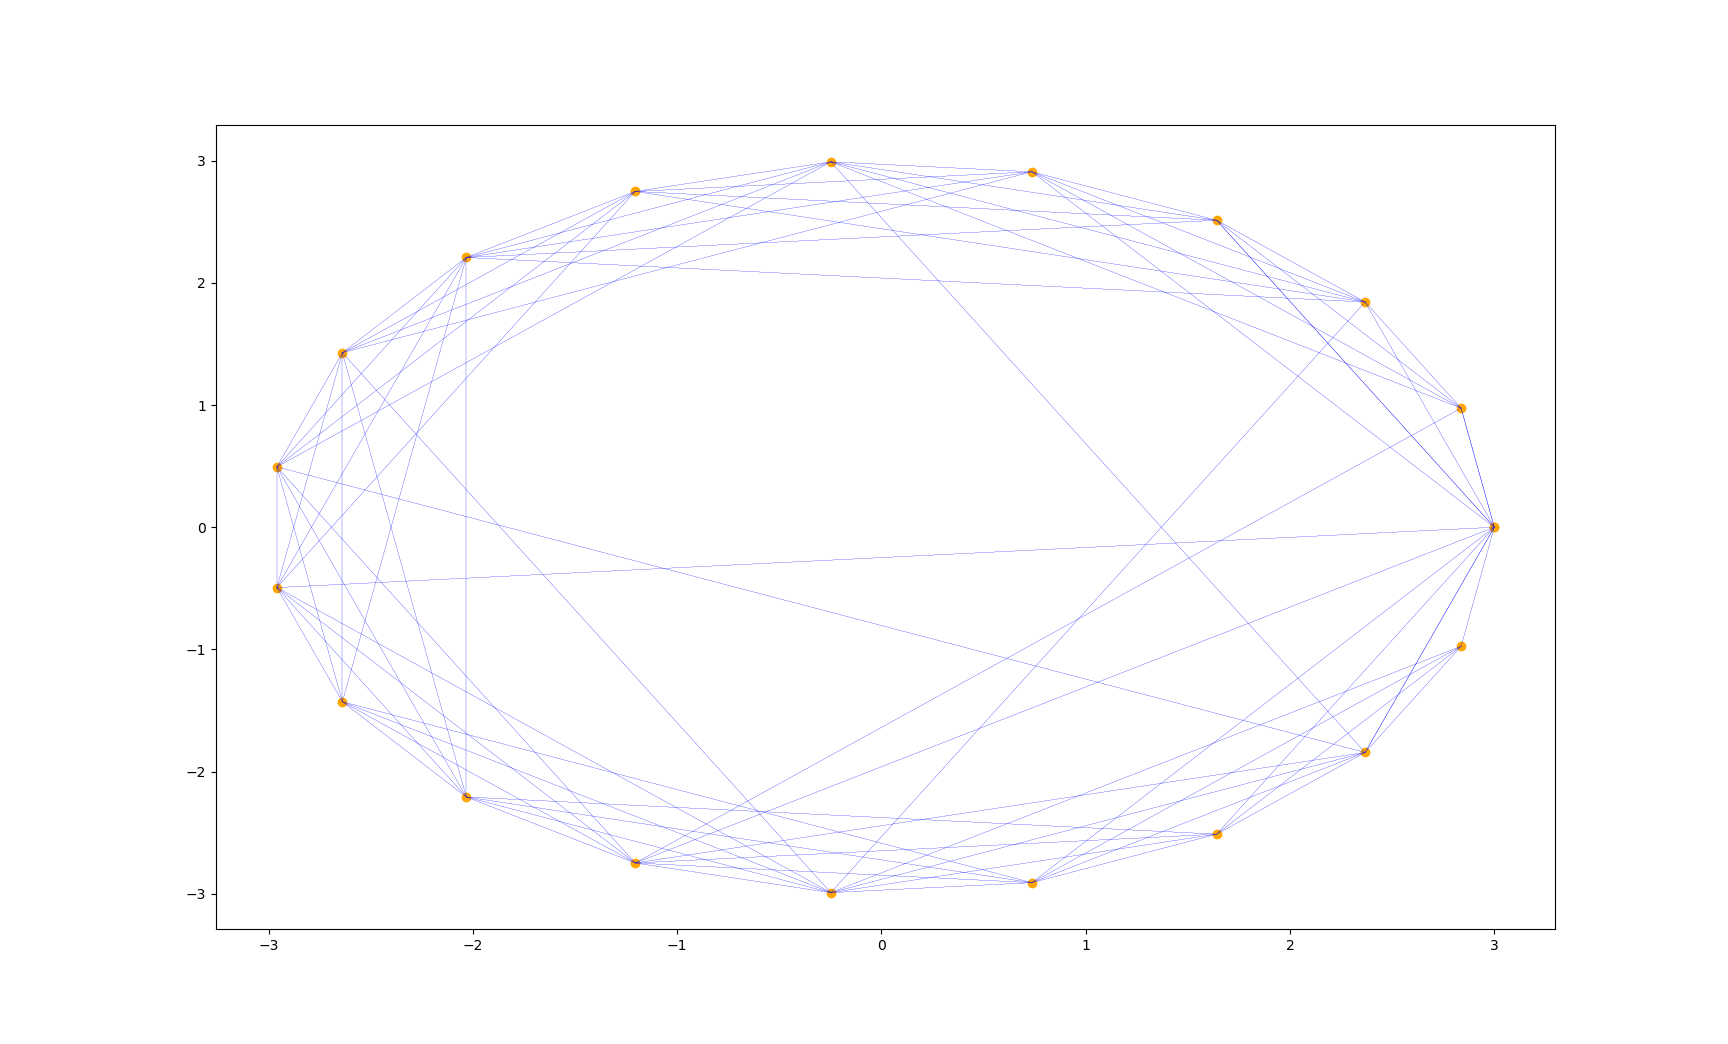
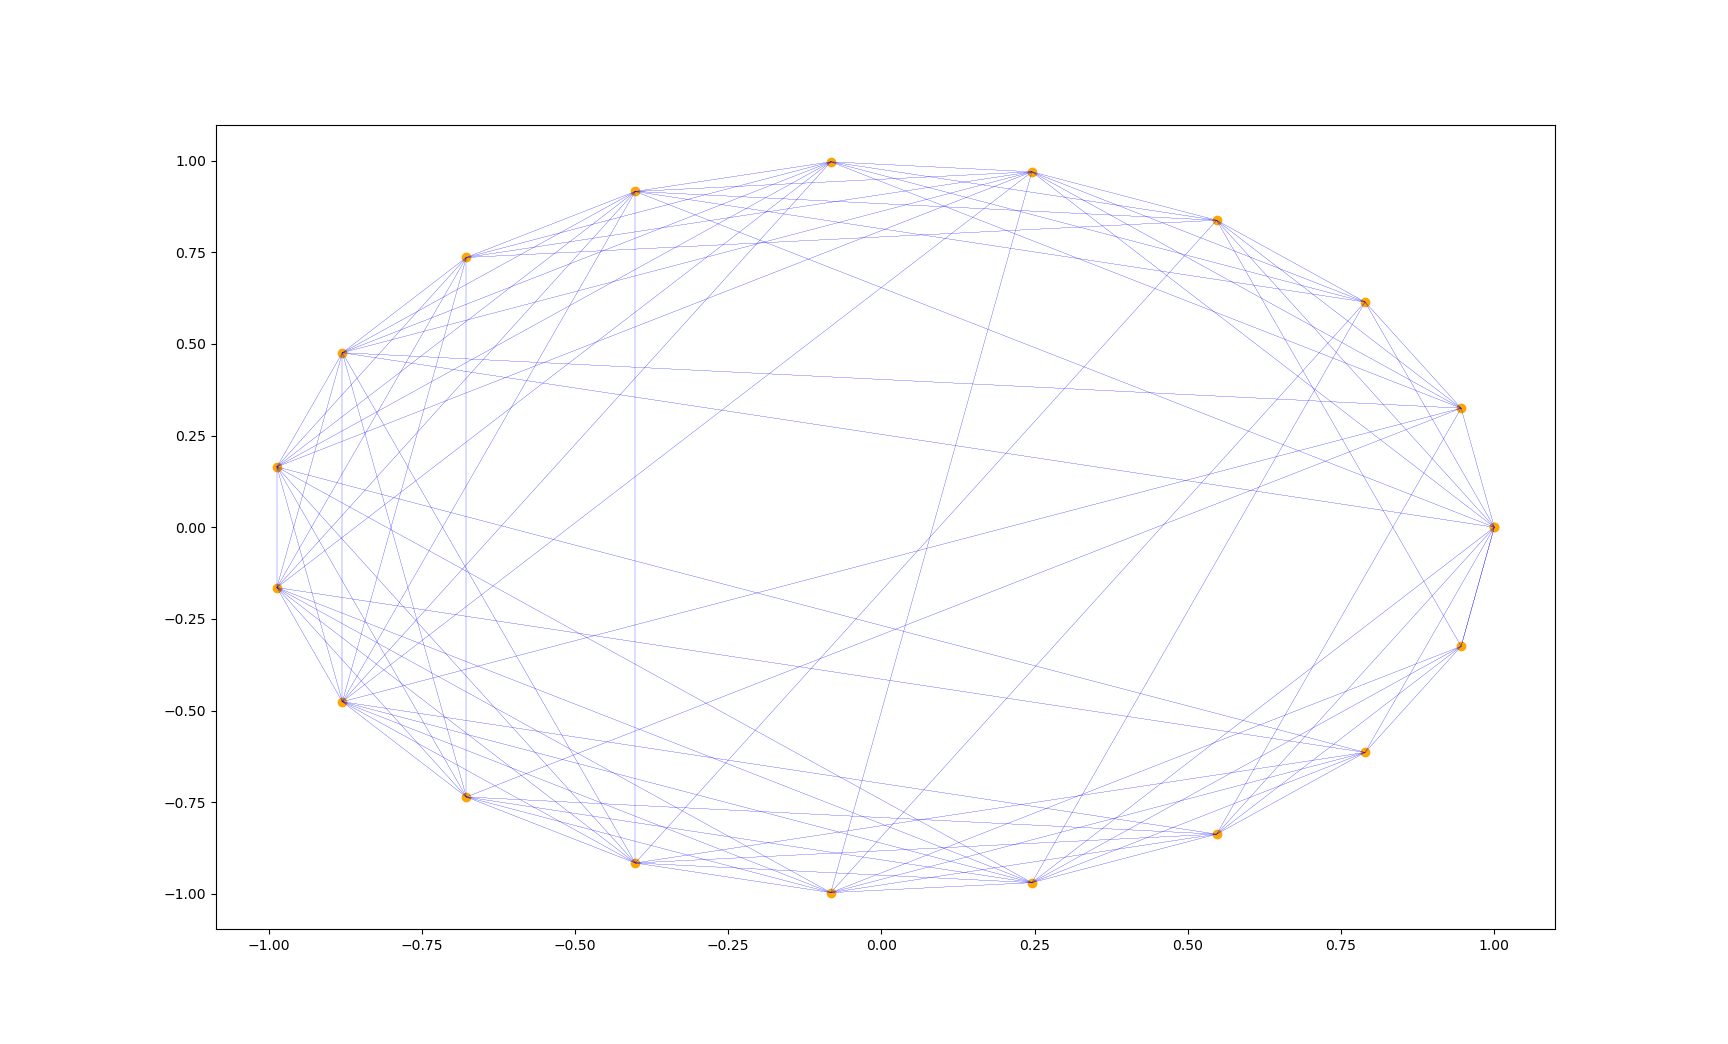
Updates

diff --git a/HW3/12-5.py b/HW3/12-5.py
@@ -1,0 +1,98 @@
+import numpy as np
+import matplotlib.pyplot as plt
+import time
+
+def InitializeAdjacencyMatrix(n, p, c):
+    '''
+    Watts Strogatz small-world graph
+    '''
+    matrix = np.zeros([n,n], dtype=int)
+    for i in range(n):
+        for j in range(n):
+            dist = abs(i - j)
+            if j == n-1 and i == 0:
+                dist = 1
+            if dist >= 1 and dist <= c/2:
+                matrix[i][j] = 1
+                matrix[j][i] = 1
+            r = np.random.rand()
+            if r < p and j>i:
+                matrix[i][j] = 1
+                matrix[j][i] = 1
+    np.fill_diagonal(matrix, 0)
+    return matrix
+
+def LengthMatrix(adj):
+    # Initialize Matrix
+    n = len(adj)
+    
+    matrix = -1*np.ones([n, n], dtype=int)
+    np.fill_diagonal(matrix, 0)
+    at = adj
+    t = 0
+    while np.any(matrix == -1):
+        t += 1
+        at = np.linalg.matrix_power(adj, t)
+        for i in range(n):
+            for j in range(n):
+                if at[i][j] != 0 and matrix[i][j] == -1:
+                    matrix[i][j] = t
+                    matrix[j][i] = t
+        if t > 100:
+            print('Probability cancelled, t > 10')
+            matrix = 10*np.ones([n, n], dtype=int)
+            break
+
+    np.fill_diagonal(matrix, 0)
+    return matrix
+
+def AveragePathLength(n, nProb):
+    probabilities = np.linspace(10**(-5), 10**(-3), num=int(nProb/2)).tolist()
+    probabilities.append(np.linspace(10**(-2), 1, num=int(nProb/2)))
+    probabilities = [np.linspace(10**(-5), 10**(-3), num=int(nProb/2)).tolist(), np.linspace(10**(-2), 1, num=int(nProb/2)).tolist()]
+    avgSteps = []
+    for prob in probabilities:
+        for p in prob:
+            print(f'\nNew probability: {p}')
+            at = time.time()
+            adj = InitializeAdjacencyMatrix(n, p, c)
+            lenMatrix = LengthMatrix(adj)
+            avgSteps.append(np.mean(lenMatrix))
+            print(f' > avg length: {avgSteps[-1]}, time: {(time.time() - at)} seconds')
+    return avgSteps, probabilities
+
+def PlotFunction(n, nProb):
+    steps, p = AveragePathLength(n, nProb)
+    probabilities = []
+    for i in p:
+        for j in i:
+            probabilities.append(j)
+    #clusterC = ClusteringCoefficient(n, nProb)
+
+    fig, axs = plt.subplots(1, 1, figsize=(10, 5))
+
+    # Plot average steps length
+    Eqn126 = lambda p, n, gamma: n/(2*c)
+    Eqn127 = lambda p: np.log(n)/np.log(c)
+    gamma = 0.57722
+    smallP = [Eqn126(p, n, gamma) for p in probabilities]
+    bigP = [Eqn127(p) for p in probabilities]
+    axs.loglog(probabilities, steps, '.')
+    axs.plot(probabilities, smallP, color='green', linewidth=1)
+    axs.plot(probabilities, bigP, color='red', linewidth=1)
+    axs.set_xlim([10**(-5), 1.1])
+    axs.set_ylim([0, 50])
+    axs.set_xlabel('p')
+    axs.set_ylabel('length')
+    print(f'Simulation time: {(time.time() - st)%60} minutes')
+    plt.show()
+
+n = 500
+c = 6
+p = 0
+nP = 100
+st = time.time()
+probabilities = np.linspace(10**(-5), 10**(-3), num=int(nP/2)).tolist()
+probabilities.append(np.linspace(10**(-2), 1, num=int(nP/2)).tolist())
+probabilities = [np.linspace(10**(-5), 10**(-3), num=int(nP/2)).tolist(), np.linspace(10**(-2), 1, num=int(nP/2)).tolist()]
+PlotFunction(n, nP)

diff --git a/HW3/12-1.py b/HW3/12-1.py
@@ -35,6 +35,8 @@ def PlotFunction(nodes, adjacency, ax):
                 pairCoord.append([[x[i], x[j]], [y[i], y[j]]])
     for pair in pairCoord:
         ax.plot(pair[0], pair[1], linewidth=0.1, color='blue')
+    ax.set_xticks([]), ax.set_yticks([])
+    ax.set_xlabel(f'$n = {len(nodes)}$')
 
 
     ax.scatter(x, y, color='orange')
@@ -66,7 +68,7 @@ def MergePlots(nodes, prob, adjMatrix):
 
     plt.show()
 
-r = 3
+r = 1
 n = 300
 p = 0.05
 nodes, x, y = InitializeNodes(n, r)

diff --git a/HW3/12-2.py b/HW3/12-2.py
@@ -48,9 +48,9 @@ def PlotFunction(nodes, adjacency):
 
 
 n = 20
-r = 3
-p = 0.1
-c = 4
+r = 1
+p = 0.15
+c = 8
 nodes = InitializeNodes(n, r)
 adj = InitializeAdjecencyMatrix(n, p, c)
 print(nodes[0][0])
